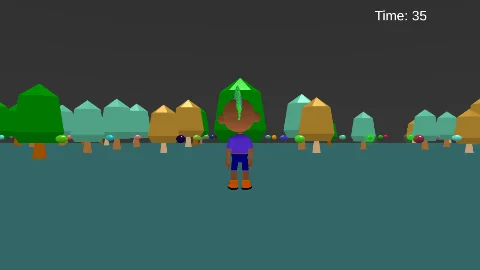
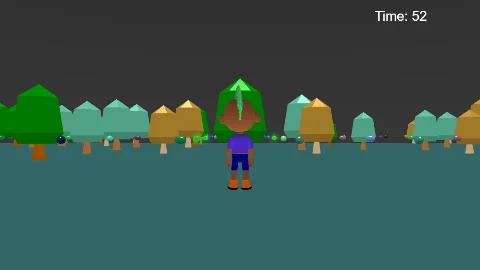
Add a delay when capturing thumbnails
So the candies appear in candy dash. Existing mechanism wasn't enough for that project.

AI use: Interactive session with Sonnet 5 with to investigate and update. Decision making, review and testing.

diff --git a/main/examples.js b/main/examples.js
@@ -23,6 +23,8 @@ export const CATEGORIES = [
 
 // Ordered list of bundled examples. `i18nKey` maps to a `<key>_ui` locale entry
 // and to `images/thumbnails/<key>.webp`; `category` is a CATEGORIES id.
+// `thumbnailSettleMs` overrides the capture script's default settle delay for
+// projects that keep visibly changing after their mesh count stabilises.
 export const EXAMPLES = [
   { i18nKey: 'starter', file: 'examples/starter.flock', category: 'worlds' },
   { i18nKey: 'tree_jump', file: 'examples/tree_jump.flock', category: 'games' },
@@ -31,7 +33,13 @@ export const EXAMPLES = [
     file: 'examples/collect_the_gems.flock',
     category: 'games',
   },
-  { i18nKey: 'candy_dash', file: 'examples/candy_dash.flock', category: 'games' },
+  {
+    i18nKey: 'candy_dash',
+    file: 'examples/candy_dash.flock',
+    category: 'games',
+    // Candies keep falling into view well after the mesh count settles.
+    thumbnailSettleMs: 6000,
+  },
   { i18nKey: 'beetle', file: 'examples/beetle.flock', category: 'games' },
   /*{
     i18nKey: 'gem_tilt_game',
